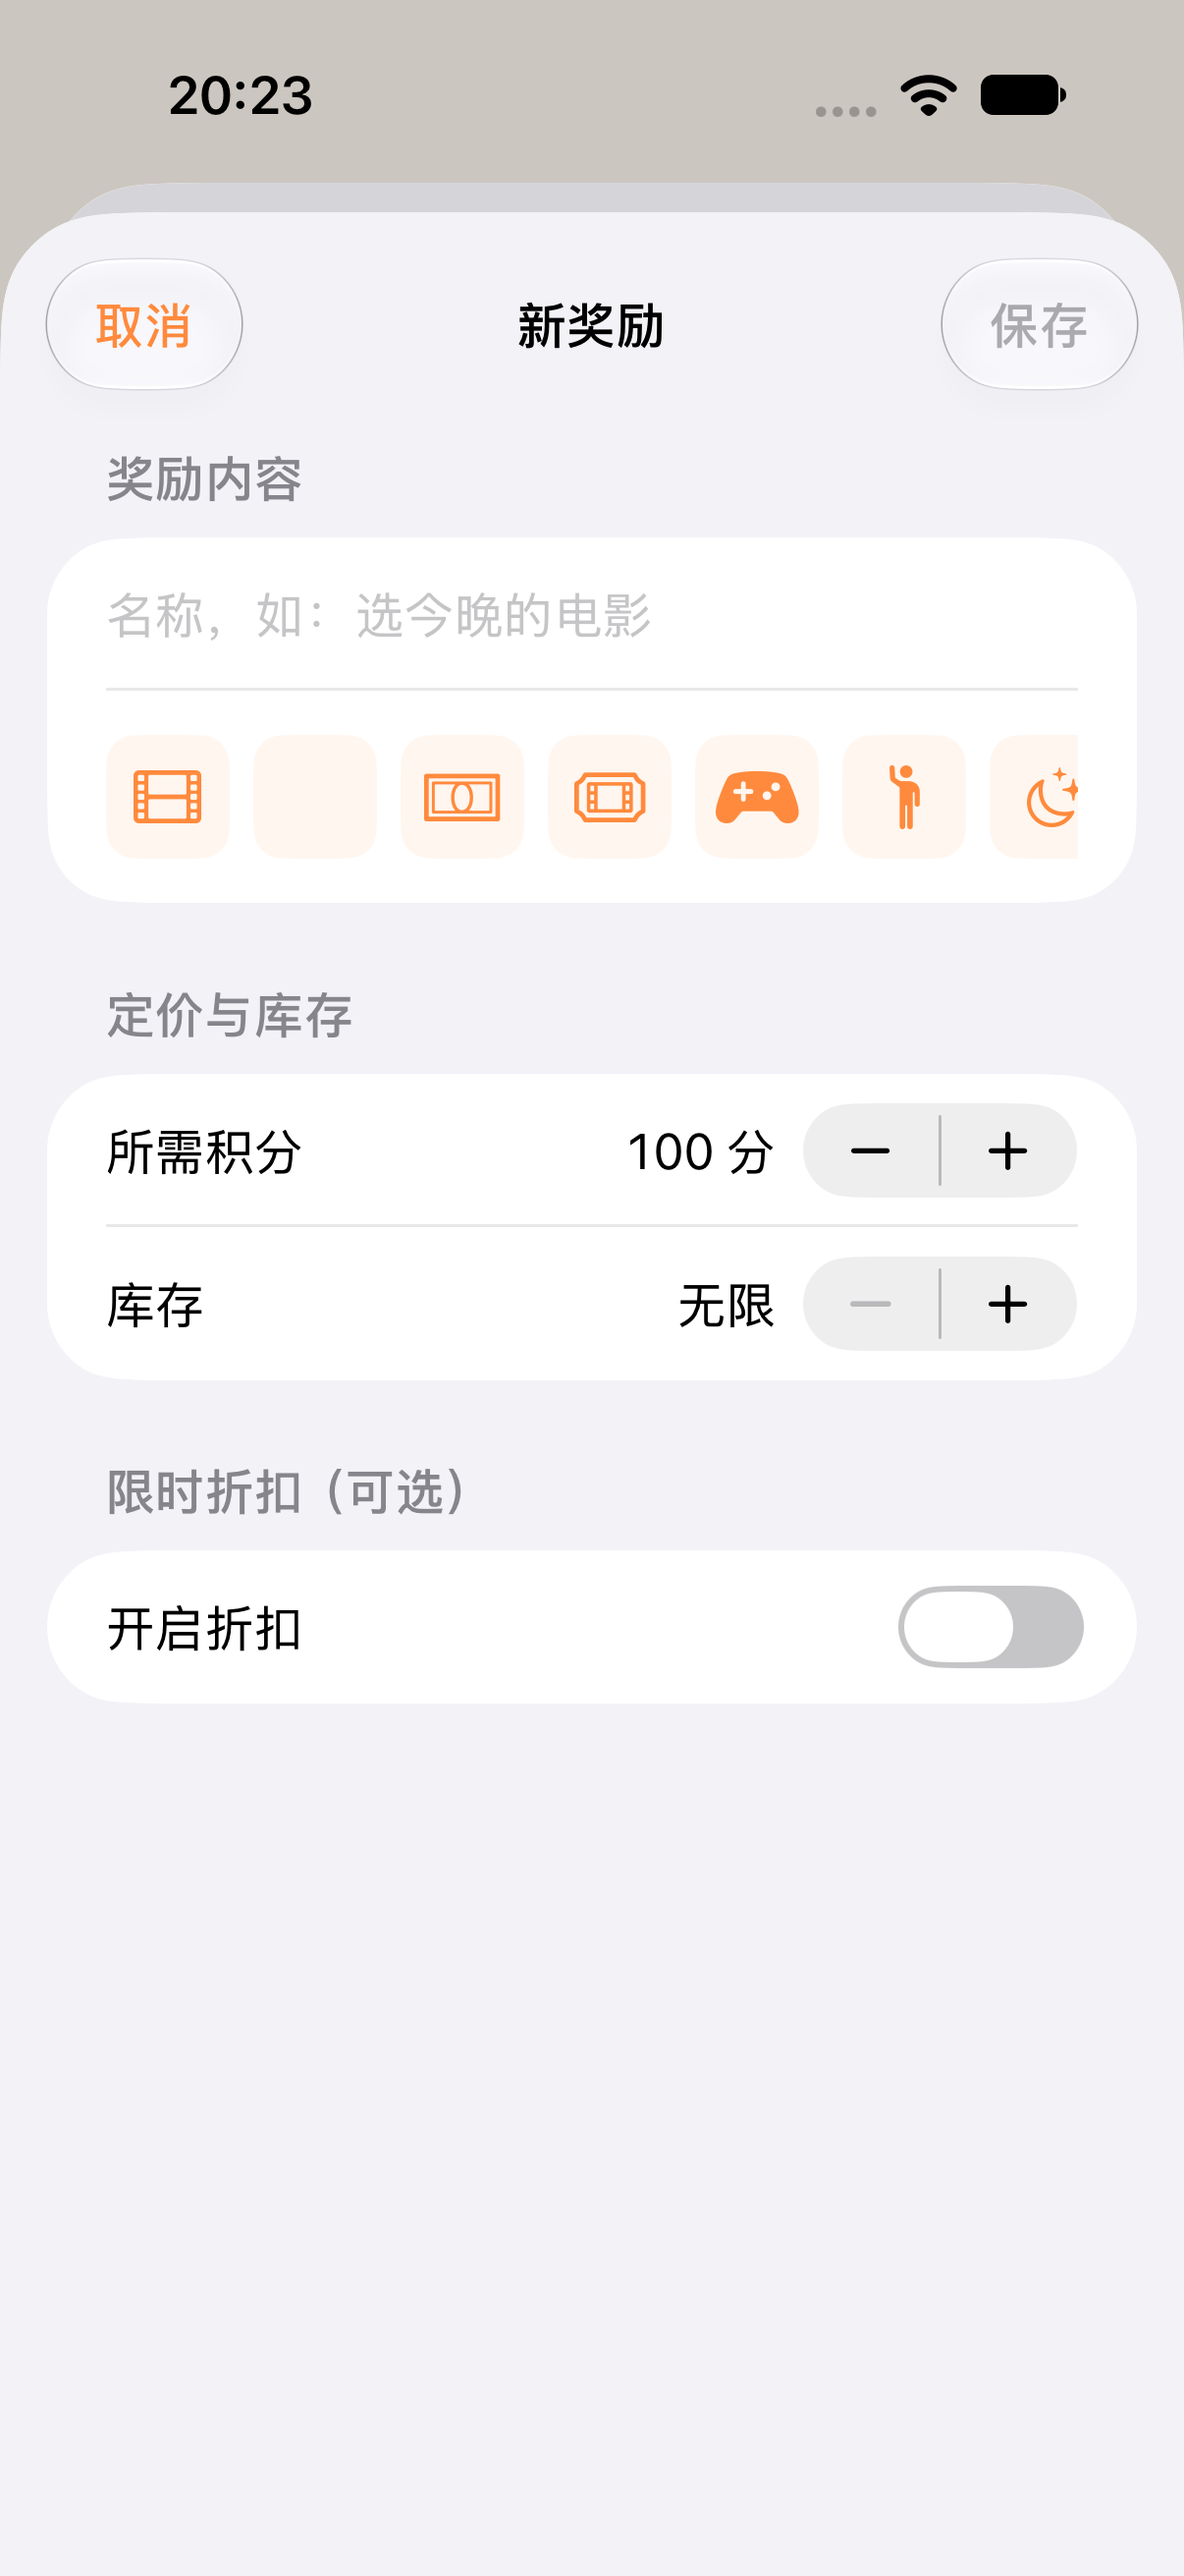
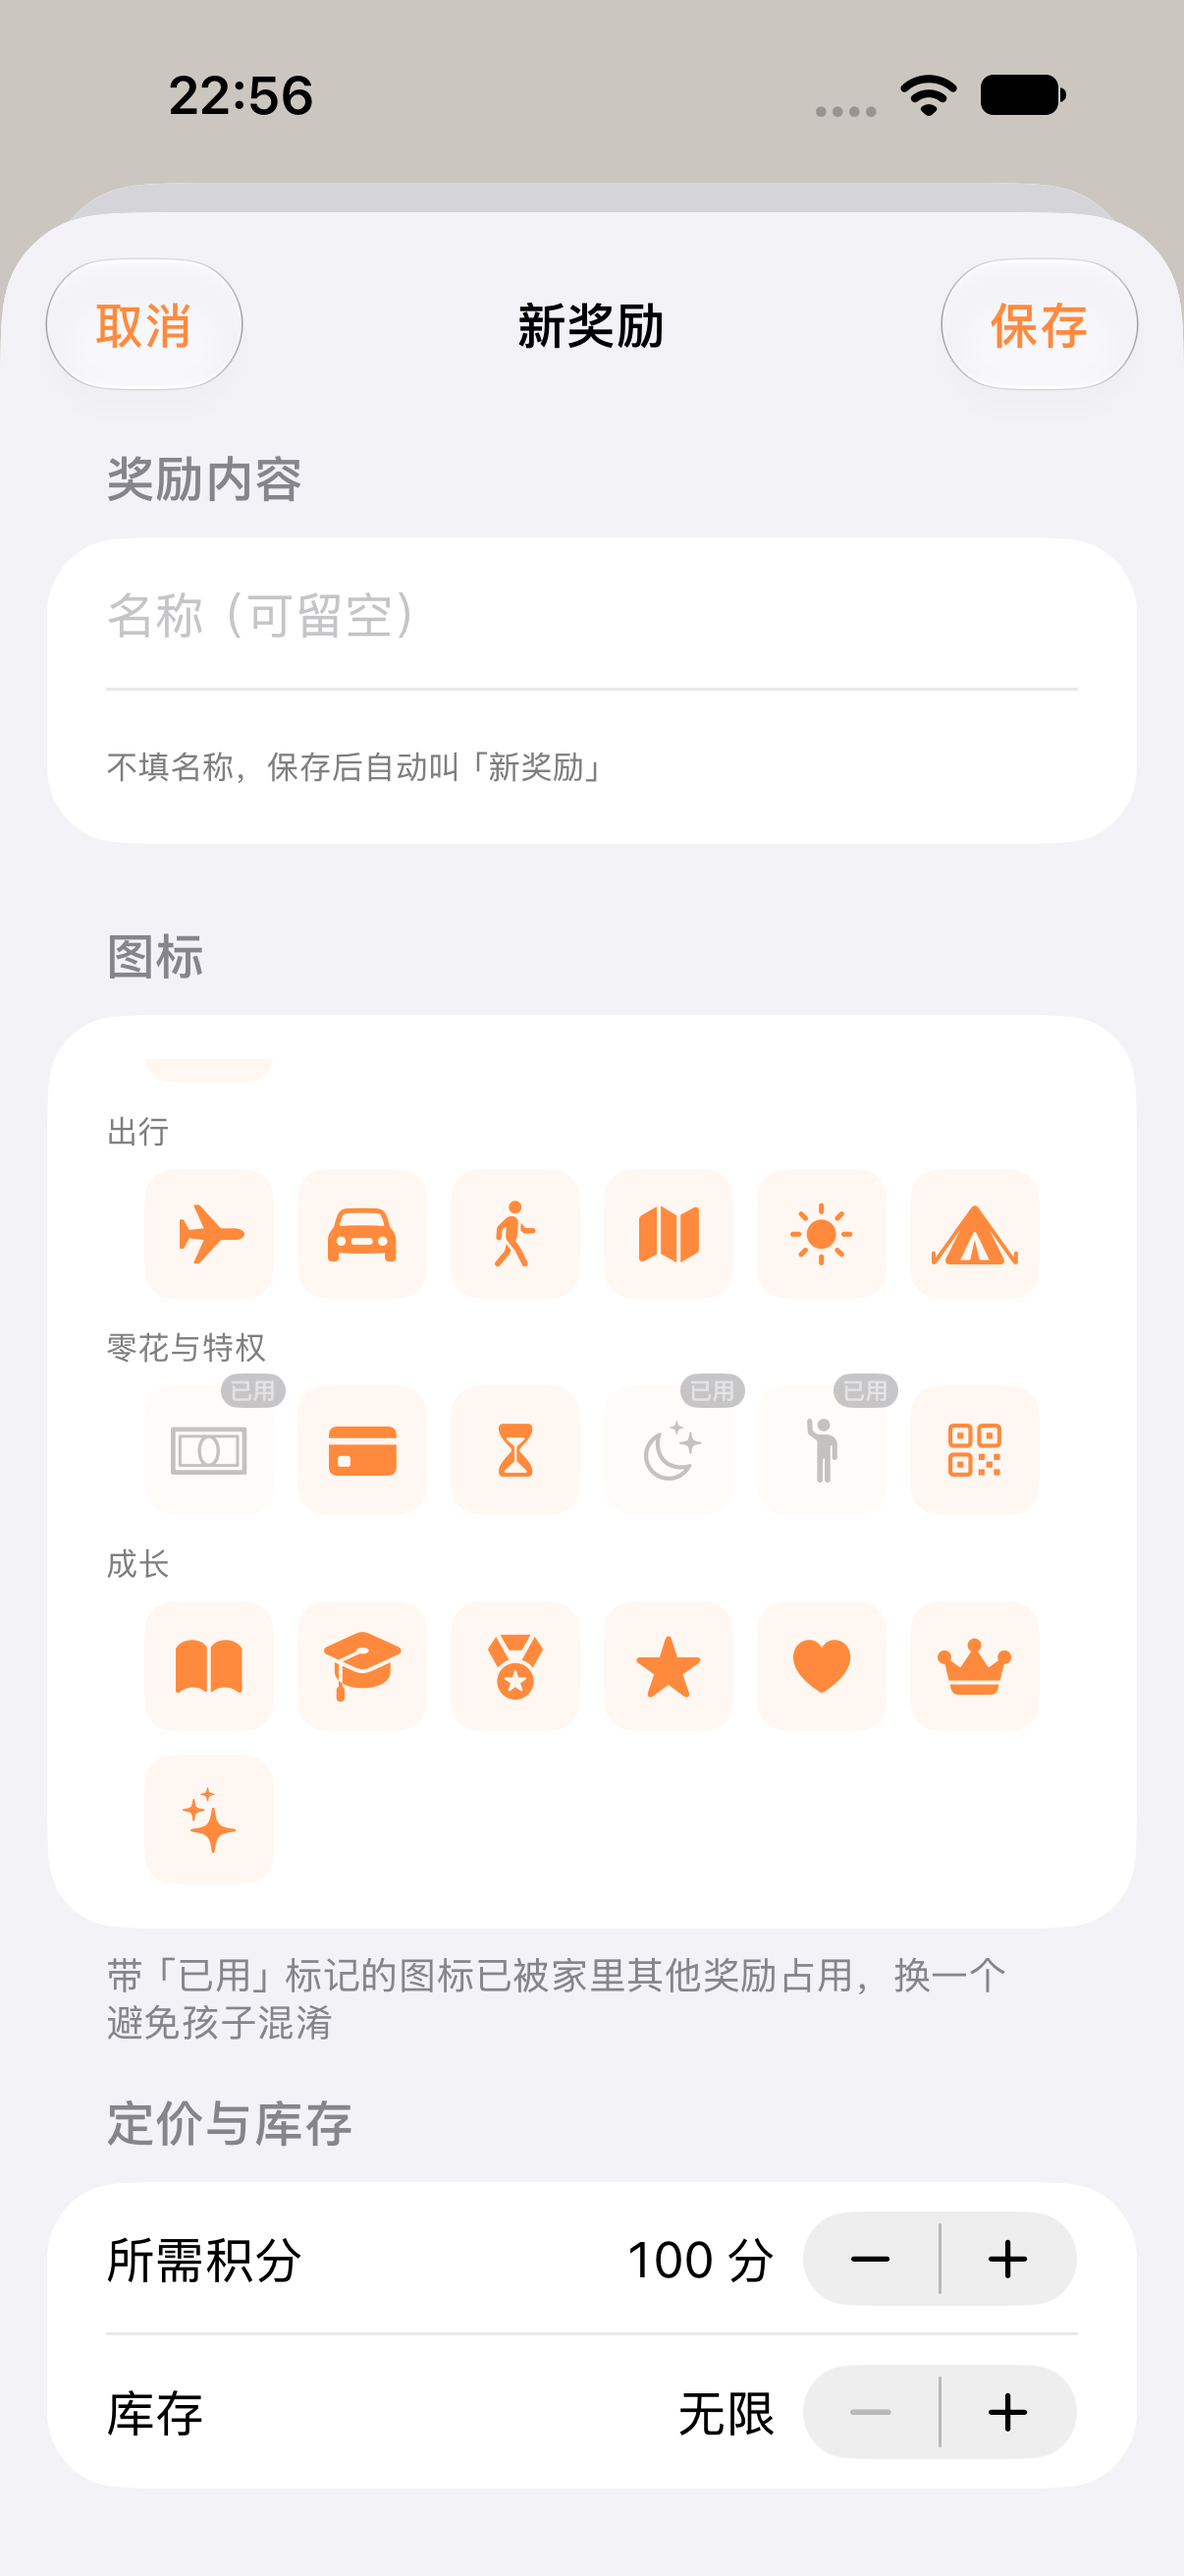
feat(v3.6): 奖励创建极简——名称可留空自动用图标中文名(30 图标全量命名/实时提示/按默认名查重)、已用徽章走查断言；96 单测全绿

diff --git a/FamilyScore/Features/Rewards/RewardAdminSheet.swift b/FamilyScore/Features/Rewards/RewardAdminSheet.swift
@@ -118,18 +118,52 @@ struct RewardEditSheet: View {
     @State private var isActive = true
     @State private var duplicate: Reward?   // 同名已有奖励（含下架）
 
-    /// 图标库（31 个，分类展示；均为 iOS 17 稳定存在的 SF Symbol）
-    static let iconLibrary: [(category: String, icons: [String])] = [
-        ("吃喝", ["birthday.cake", "cup.and.saucer.fill", "popcorn",
-                 "takeoutbag.and.cup.and.straw.fill", "gift.fill"]),
-        ("玩乐", ["film", "ticket", "gamecontroller.fill", "party.popper.fill",
-                 "music.note", "headset", "tv.fill"]),
-        ("出行", ["airplane", "car.fill", "figure.walk", "map.fill", "sun.max.fill", "tent.fill"]),
-        ("零花与特权", ["banknote", "creditcard.fill", "hourglass", "moon.stars",
-                     "figure.wave", "qrcode"]),
-        ("成长", ["book.fill", "graduationcap.fill", "medal.fill", "star.fill",
-                "heart.fill", "crown.fill", "sparkles"]),
+    struct IconDef: Identifiable, Hashable {
+        let symbol: String
+        let name: String     // 名称留空时的默认名
+        var id: String { symbol }
+    }
+
+    /// 图标库（30 个，分类展示；符号名经 iOS 27 运行时日志验证存在），name 为名称留空时的默认名
+    static let iconLibrary: [(category: String, icons: [IconDef])] = [
+        ("吃喝", [.init(symbol: "birthday.cake", name: "蛋糕"),
+                 .init(symbol: "cup.and.saucer.fill", name: "下午茶"),
+                 .init(symbol: "popcorn", name: "爆米花"),
+                 .init(symbol: "takeoutbag.and.cup.and.straw.fill", name: "外带饮品")]),
+        ("玩乐", [.init(symbol: "film", name: "电影"),
+                .init(symbol: "ticket", name: "演出票"),
+                .init(symbol: "gamecontroller.fill", name: "游戏时间"),
+                .init(symbol: "party.popper.fill", name: "开个派对"),
+                .init(symbol: "music.note", name: "点歌"),
+                .init(symbol: "headset", name: "听歌时光"),
+                .init(symbol: "tv.fill", name: "看动画片")]),
+        ("出行", [.init(symbol: "airplane", name: "坐飞机出游"),
+                 .init(symbol: "car.fill", name: "全家兜风"),
+                 .init(symbol: "figure.walk", name: "散步同游"),
+                 .init(symbol: "map.fill", name: "探险地图"),
+                 .init(symbol: "sun.max.fill", name: "户外野餐"),
+                 .init(symbol: "tent.fill", name: "露营")]),
+        ("零花与特权", [.init(symbol: "banknote", name: "零花钱"),
+                     .init(symbol: "creditcard.fill", name: "零用金卡"),
+                     .init(symbol: "hourglass", name: "缓一缓卡"),
+                     .init(symbol: "moon.stars", name: "晚睡券"),
+                     .init(symbol: "figure.wave", name: "免做家务"),
+                     .init(symbol: "qrcode", name: "神秘兑换")]),
+        ("成长", [.init(symbol: "book.fill", name: "一本课外书"),
+                .init(symbol: "graduationcap.fill", name: "学习进步奖"),
+                .init(symbol: "medal.fill", name: "小勋章"),
+                .init(symbol: "star.fill", name: "小星星"),
+                .init(symbol: "heart.fill", name: "爱心愿望"),
+                .init(symbol: "crown.fill", name: "小皇冠"),
+                .init(symbol: "sparkles", name: "惊喜盒")]),
     ]
+
+    static let allIcons: [IconDef] = iconLibrary.flatMap(\.icons)
+
+    /// 图标默认名（新奖励名称留空时使用）
+    static func defaultName(for symbol: String) -> String {
+        allIcons.first { $0.symbol == symbol }?.name ?? "新奖励"
+    }
 
     private var family: Family? { app.currentFamily(in: context) }
 
@@ -137,10 +171,18 @@ struct RewardEditSheet: View {
         NavigationStack {
             Form {
                 Section("奖励内容") {
-                    TextField("名称，如：选今晚的电影", text: $title)
+                    TextField("名称（可留空）", text: $title)
                         .onChange(of: title) { _, newValue in
                             checkDuplicate(newValue)
                         }
+                        .onChange(of: icon) { _, _ in
+                            checkDuplicate(title)   // 换图标后默认名变化，重新查重
+                        }
+                    Text(title.trimmingCharacters(in: .whitespaces).isEmpty
+                         ? "不填名称，保存后自动叫「\(effectiveTitle)」"
+                         : " ")
+                        .font(.caption2)
+                        .foregroundStyle(.secondary)
                     if let occupiedBy = occupiedIcons[icon] {
                         Label("当前图标已被「\(occupiedBy)」使用", systemImage: "exclamationmark.triangle")
                             .font(.caption2)
@@ -185,8 +227,8 @@ struct RewardEditSheet: View {
                                         .foregroundStyle(.secondary)
                                     LazyVGrid(columns: Array(repeating: GridItem(.fixed(44)), count: 6),
                                               spacing: 8) {
-                                        ForEach(group.icons, id: \.self) { ic in
-                                            iconCell(ic)
+                                        ForEach(group.icons) { def in
+                                            iconCell(def.symbol)
                                         }
                                     }
                                 }
@@ -234,7 +276,7 @@ struct RewardEditSheet: View {
                 ToolbarItem(placement: .confirmationAction) {
                     Button("保存") { save() }
                         .fontWeight(.semibold)
-                        .disabled(title.isEmpty || (hasDiscount && discountCost >= cost) || duplicate != nil)
+                        .disabled(hasDiscount && discountCost >= cost)
                 }
             }
             .onAppear {
@@ -286,35 +328,40 @@ struct RewardEditSheet: View {
         .accessibilityLabel(occupiedBy.map { "图标 \(ic)，已被\($0)占用" } ?? "图标 \(ic)")
     }
 
+    /// 实际将保存的名称：留空 → 图标默认名
+    private var effectiveTitle: String {
+        let t = title.trimmingCharacters(in: .whitespaces)
+        return t.isEmpty ? Self.defaultName(for: icon) : t
+    }
+
     private func checkDuplicate(_ newValue: String) {
         guard reward == nil, let f = family else { duplicate = nil; return }
-        let hit = allRewards.first {
-            $0.familyID == f.id && $0.title == newValue.trimmingCharacters(in: .whitespaces)
-        }
+        let name = effectiveTitle
+        let hit = allRewards.first { $0.familyID == f.id && $0.title == name }
         duplicate = (hit?.id != reward?.id) ? hit : nil
     }
 
     private func save() {
         guard let f = family else { return }
         // 新建命中同名已有奖励 → 阻断（提示里已提供"重新上架"或改名）
-        if reward == nil, let dup = duplicate {
-            _ = dup
-            return
+        if reward == nil, duplicate != nil {
+            return   // 命中同名（含按默认名生成）——顶部提示已给出"重新上架/换图标"路径
         }
+        let finalTitle = effectiveTitle
         if let r = reward {
-            r.title = title; r.icon = icon; r.cost = cost; r.stock = stock; r.isActive = isActive
+            r.title = finalTitle; r.icon = icon; r.cost = cost; r.stock = stock; r.isActive = isActive
             r.discountCost = hasDiscount ? discountCost : nil
             r.discountEndsAt = hasDiscount ? .now.addingTimeInterval(Double(discountDays) * 86400) : nil
         } else {
             context.insert(Reward(
-                familyID: f.id, title: title, icon: icon, cost: cost,
+                familyID: f.id, title: finalTitle, icon: icon, cost: cost,
                 discountCost: hasDiscount ? discountCost : nil,
                 discountEndsAt: hasDiscount ? .now.addingTimeInterval(Double(discountDays) * 86400) : nil,
                 stock: stock))
         }
         AuditService.log(familyID: f.id, actorID: app.currentMemberID ?? f.ownerID,
                          action: .config, targetID: reward?.id ?? f.id,
-                         reason: "\(reward == nil ? "新增" : "修改")奖励「\(title)」", context: context)
+                         reason: "\(reward == nil ? "新增" : "修改")奖励「\(finalTitle)」", context: context)
         try? context.save()
         Haptics.success()
         dismiss()

diff --git a/FamilyScoreUITests/FamilyScoreUITests.swift b/FamilyScoreUITests/FamilyScoreUITests.swift
@@ -72,6 +72,14 @@ final class FamilyScoreUITests: XCTestCase {
         snap(app, "08_reward_admin")
         app.buttons["plus.circle.fill"].firstMatch.tap()
         XCTAssertTrue(app.staticTexts["奖励内容"].waitForExistence(timeout: 6))
+        // v3.6：名称可留空（提示文案）+ 预置图标占用徽章可见
+        XCTAssertTrue(app.staticTexts.containing(
+            NSPredicate(format: "label CONTAINS '不填名称'")).firstMatch.waitForExistence(timeout: 4),
+            "应提示名称可留空自动用图标名")
+        app.swipeUp()
+        XCTAssertTrue(app.staticTexts.containing(
+            NSPredicate(format: "label CONTAINS '已用'")).firstMatch.waitForExistence(timeout: 4),
+            "被预置奖励占用的图标应显示已用标记")
         snap(app, "09_reward_edit")
         app.navigationBars.buttons.firstMatch.tap() // 取消编辑
         sleep(1)

diff --git a/FamilyScoreTests/MemberAdminTests.swift b/FamilyScoreTests/MemberAdminTests.swift
@@ -123,7 +123,7 @@ extension MemberAdminTests {
         XCTAssertGreaterThanOrEqual(all.count, 28, "图标库应扩充到 30 个上下")
         // 预置奖励的 6 个图标在库中（预置奖励可正常换回原图标语义）
         for preset in RuleTemplateService.defaultRewardDrafts() where preset.icon != "ticket" {
-            XCTAssertTrue(all.contains(preset.icon), "预置图标 \\(preset.icon) 应在图标库中")
+            XCTAssertTrue(all.contains { $0.symbol == preset.icon }, "预置图标 \\(preset.icon) 应在图标库中")
         }
     }
 }

diff --git a/DESIGN.md b/DESIGN.md
@@ -1166,3 +1166,10 @@ FS-XXXX-XXXX（8 位大写 base32 + 1 位校验）
 - **图标防撞**：本家庭已被其他奖励占用的图标显示「已用」徽章并禁选（编辑自身除外）；当前误选占用图标时顶部即时警示——避免同类奖励图标混淆
 - **SF Symbol 修正**：iOS 27 已移除 `chef.hat`、`icecream`（运行时告警发现）——做饭改 `fork.knife.circle`、冰淇淋改 `birthday.cake`，全库经模拟器日志扫描零缺失
 - 测试：图标占用映射（排除自身/同图标合并）、图标库唯一性与预置图标覆盖；96 单测全绿
+
+
+## 23.7 v3.6 奖励创建极简化（用户反馈）
+
+- **名称可留空**：新建/编辑奖励不再强制命名——留空时自动用图标默认名（30 个图标各有中文名：film→电影、moon.stars→晚睡券…），表单实时提示"保存后自动叫「XX」"；换图标时按新默认名重新查重
+- **图标防撞确认生效**：走查断言"已用"徽章在新建页可见（预置奖励占用的图标灰显禁选）
+- 测试：图标库唯一性/默认名完整性/预置图标覆盖 + 走查两断言；96 单测全绿
